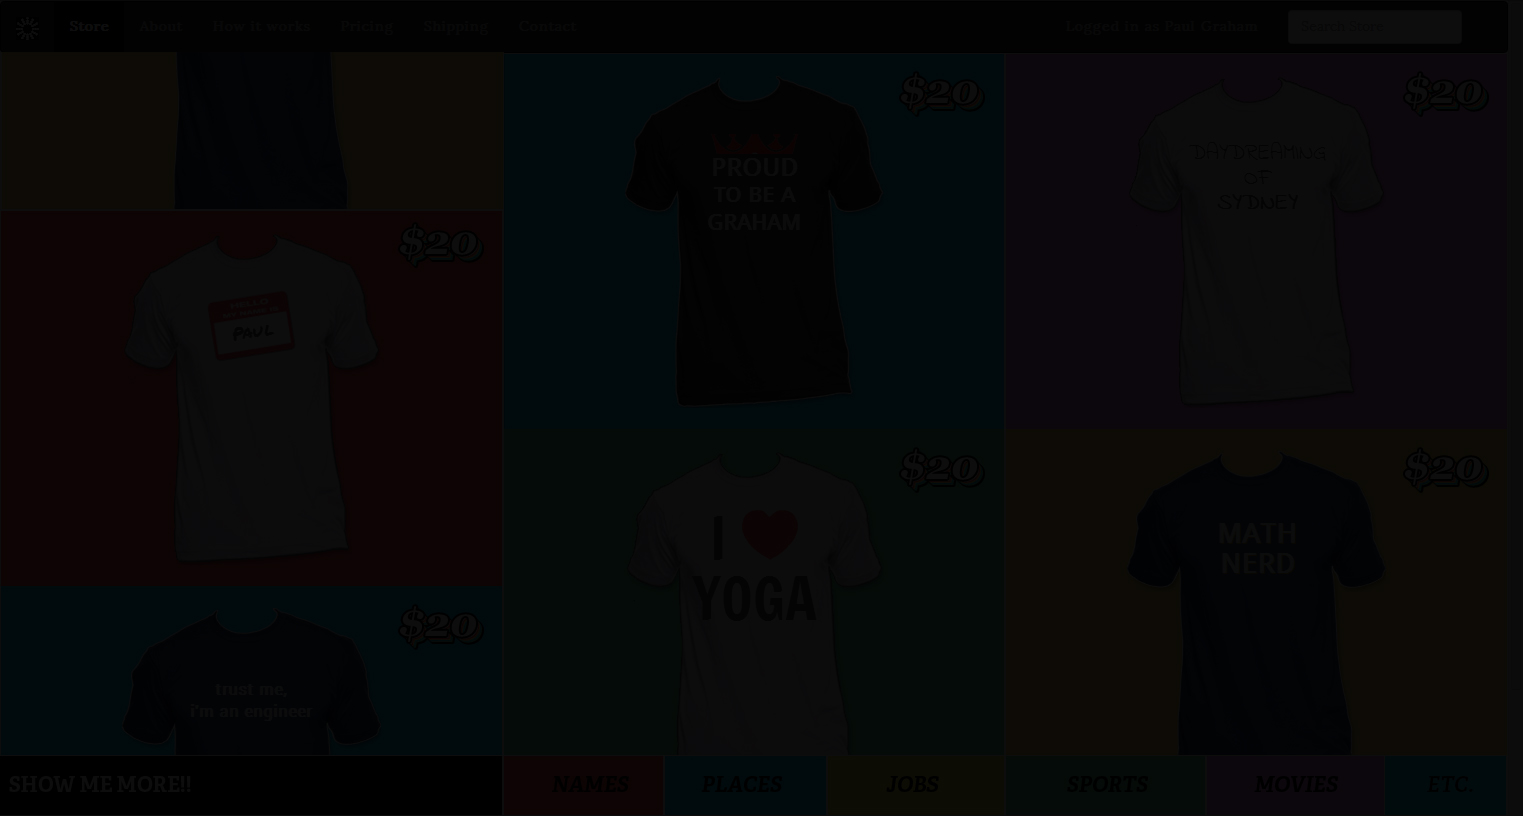
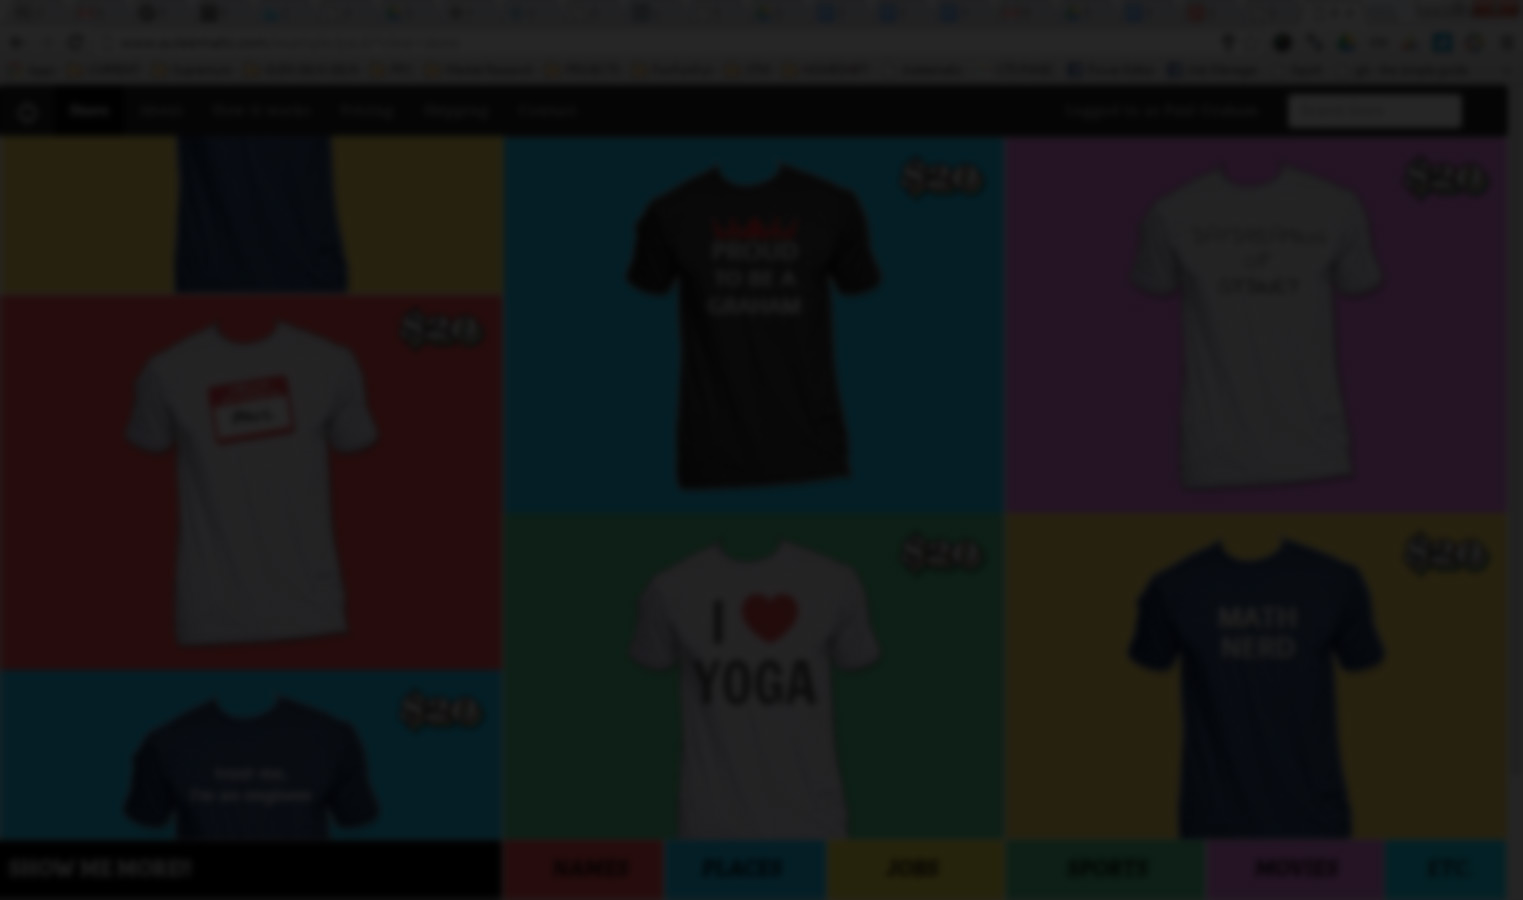
Add background image

diff --git a/public/js/script.js b/public/js/script.js
@@ -36,7 +36,7 @@ jQuery(document).ready(function($) {
 		
 		// Replace the template text with the default for user:
 		console.log("fields: " + templateData.fields + " and default: " +  templateData.defaults);
-    $('.' + templateData.fields).html(templateData.defaults);
+		$('.' + templateData.fields).html(templateData.defaults);
 		
 		
 		$(templateBg).append(template);
@@ -48,7 +48,7 @@ jQuery(document).ready(function($) {
 	var count = 0;
 	var wrappedTemplate;
 	
-	if (templates != undefined)
+	if (designs != undefined)
 	{
 		$.each(templates, function (index, templateData)
 		{

diff --git a/public/css/style.css b/public/css/style.css
@@ -231,8 +231,12 @@ a.signin-facebook:active
 .buy-now
 {
 	position: absolute;
-	bottom: 50px;
+	top: 50px;
 	right: 0;
+	
+	background-url('../img/price-20.png');
+	width: 86px;
+	height: 46px;
 	
 	color: #ffffff;
 	font-size: 18px;
